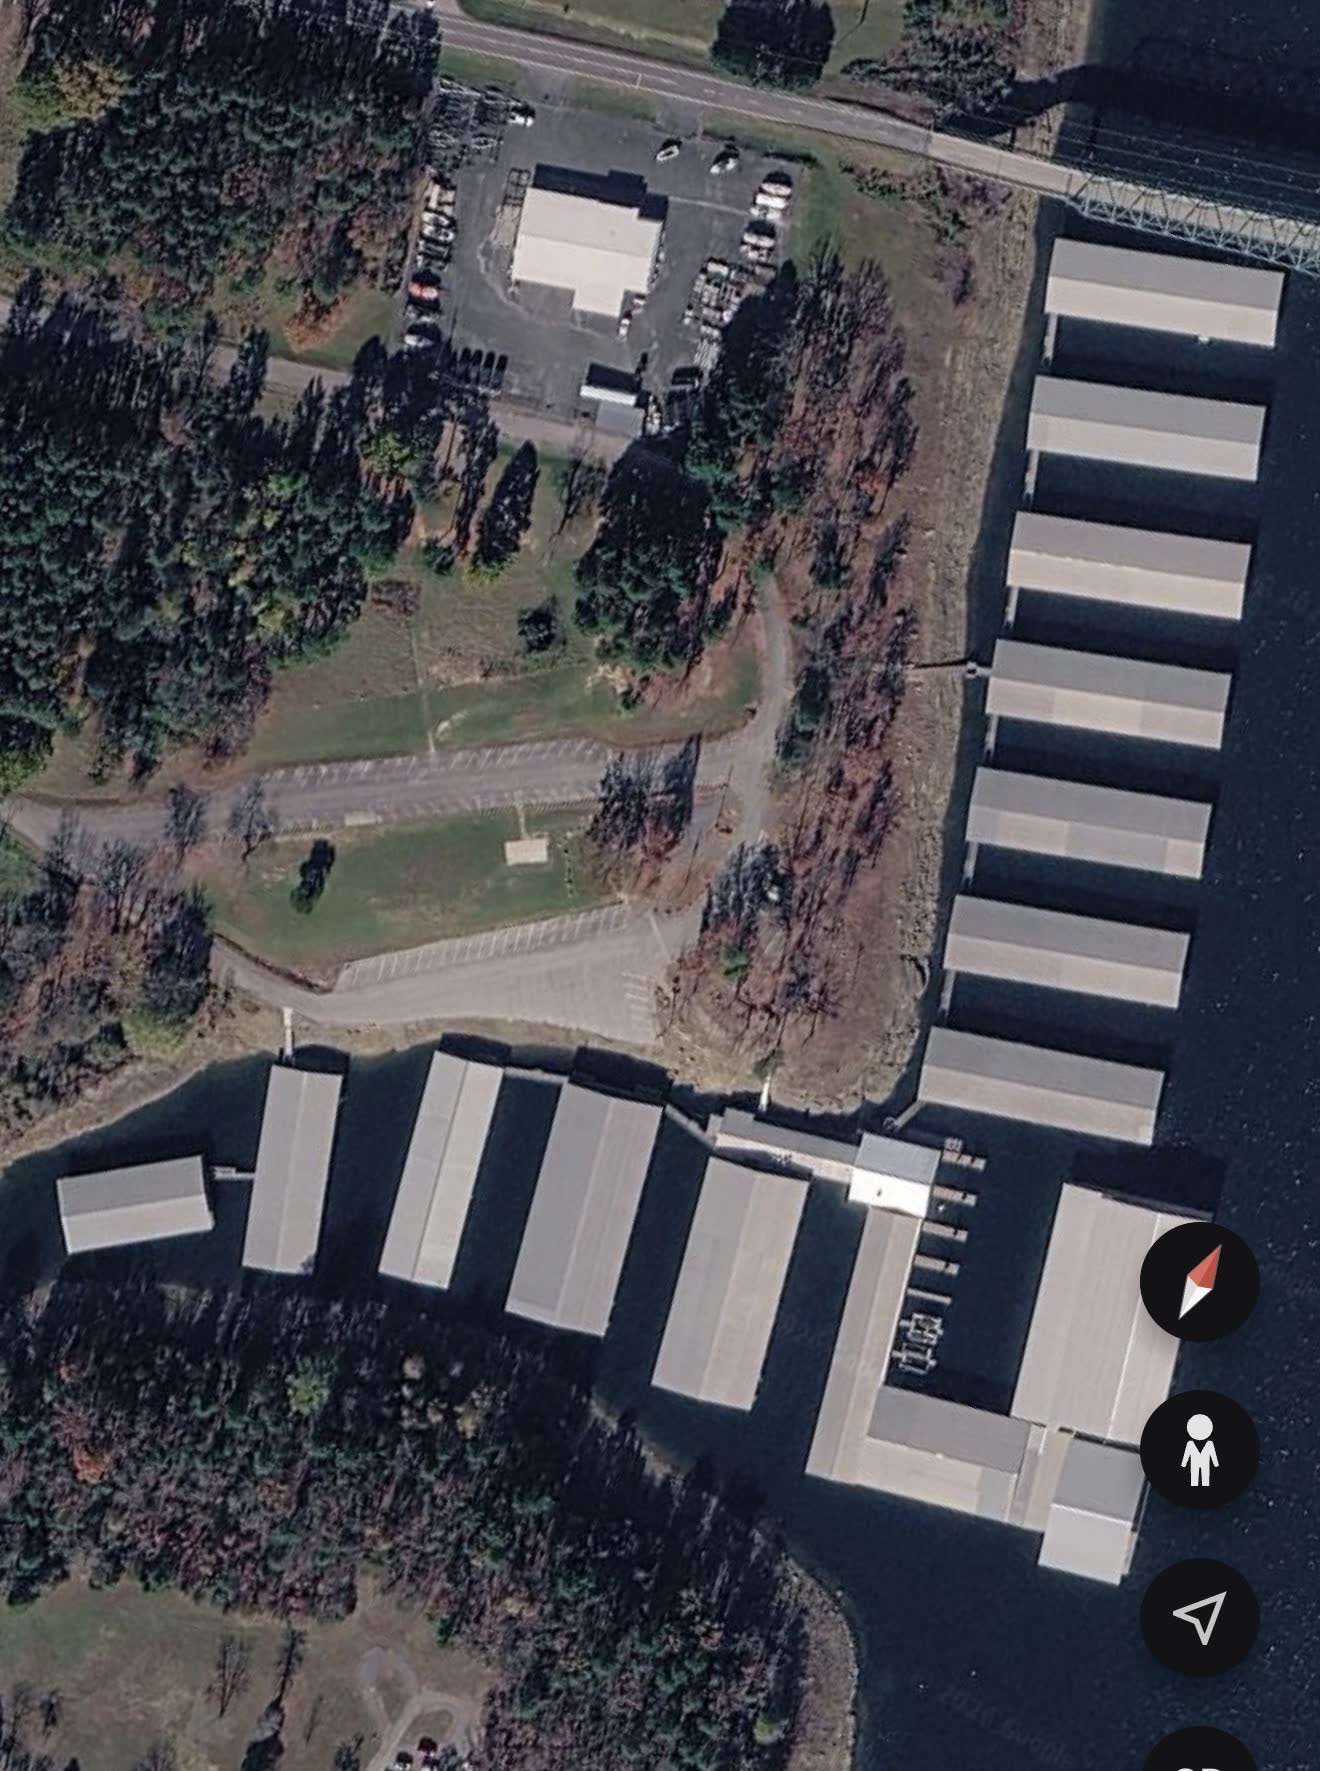
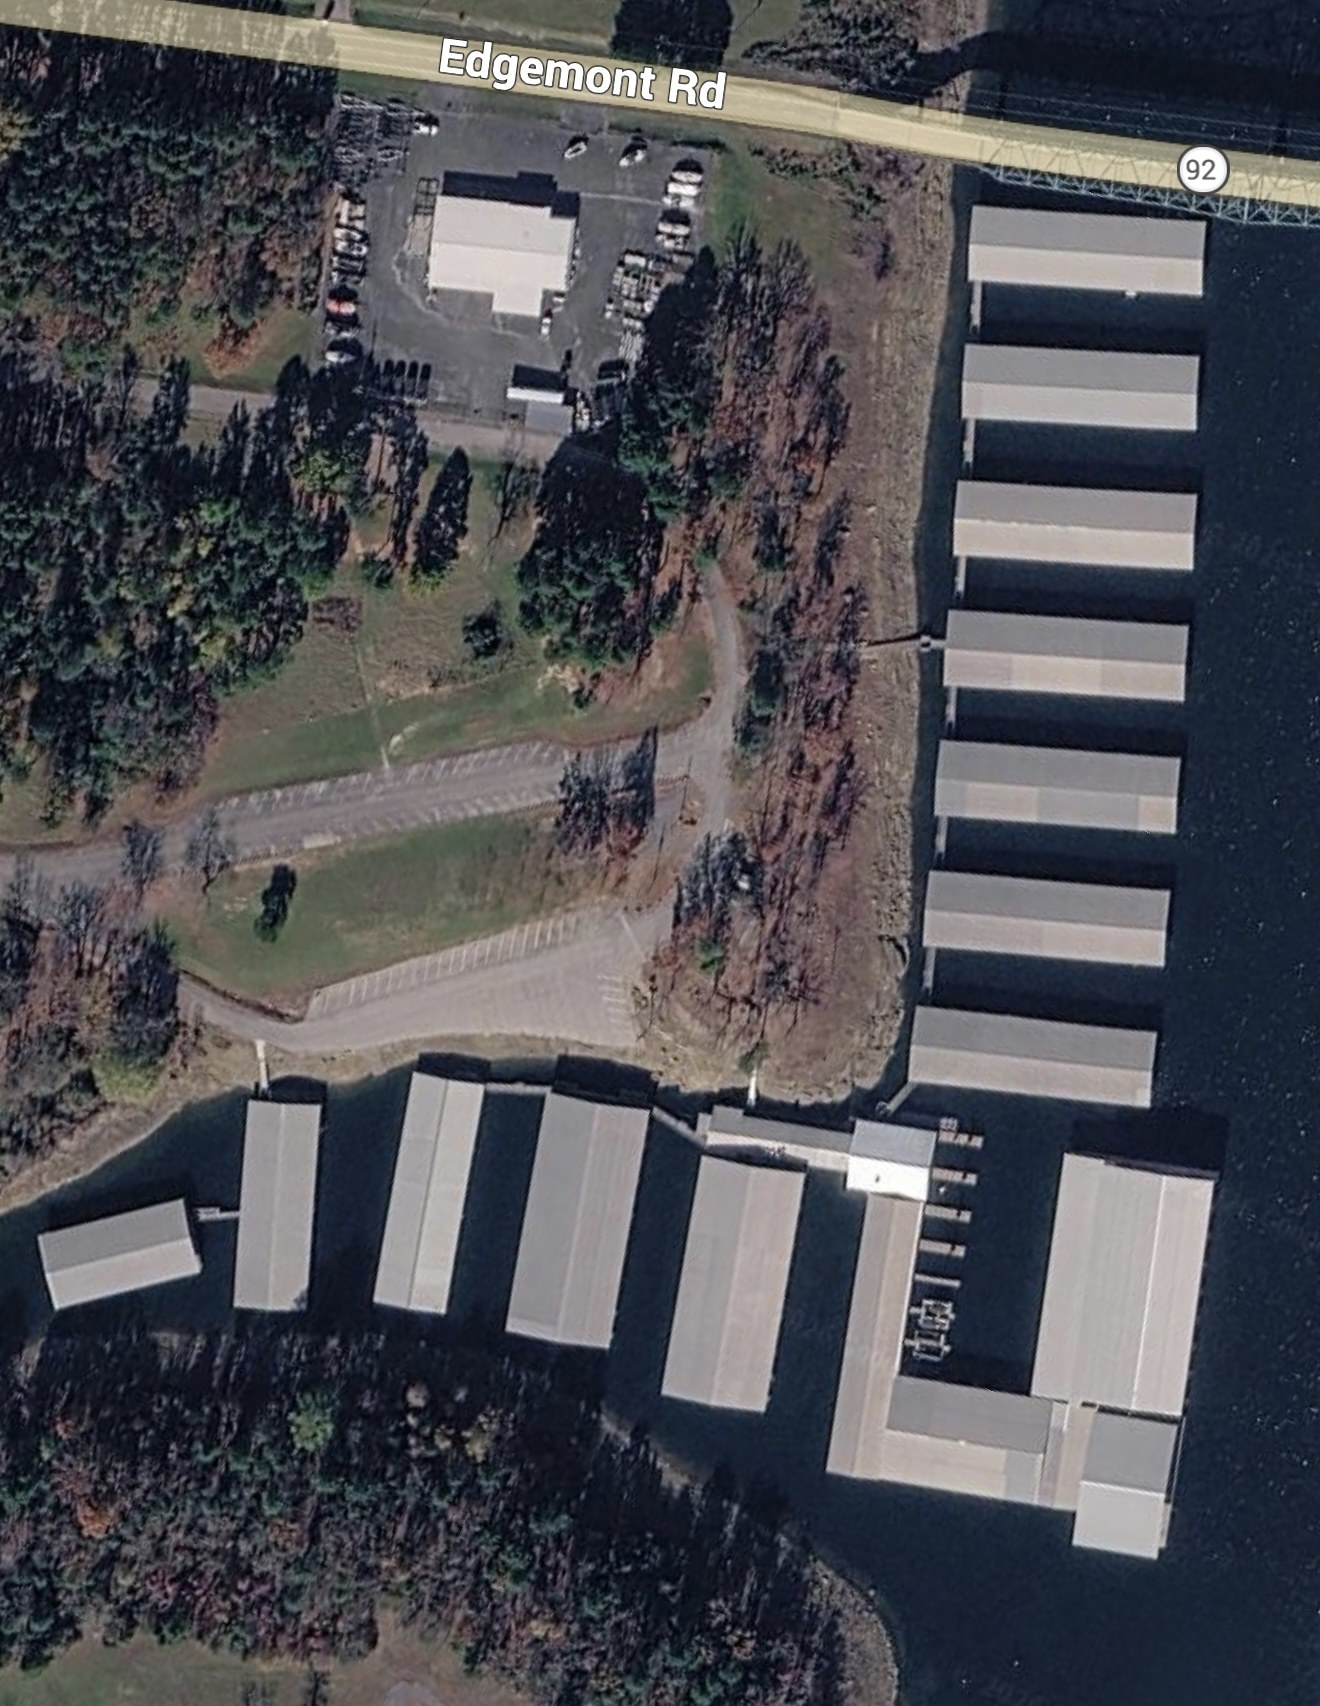
Laceys v86: new aerial overlay photo

diff --git a/laceys/app.js b/laceys/app.js
@@ -191,7 +191,7 @@ function isDockPieceMark(id){ return /^(walk|dlabel)-(7|8|9|10|11|12|13|4|3|2|1|
 let deepZoom=true;
 let photoMax=0.9;
 let photoAlign={x:0,y:0,scale:1,scaleX:1,scaleY:1,rot:0}; // overlay registration vs chart
-const PHOTO_ALIGN_STORE="laceys-photo-align-v1";
+const PHOTO_ALIGN_STORE="laceys-photo-align-v86";
 
 function clampPhotoScale(v){ return Math.max(0.2, Math.min(5, Number(v)||1)); }
 /** Normalize saved align: old `scale` → both axes; prefer scaleX/scaleY when present. */
@@ -371,10 +371,9 @@ function loadLayout(){
     const layers=Array.isArray(raw.layers)?clone(raw.layers):defaultLayers;
     let stackOrder=Array.isArray(raw.stackOrder)?clone(raw.stackOrder):[];
     if(!stackOrder.length) stackOrder=defaultStack;
-    if(raw.photoAlign){
-      photoAlign=normalizePhotoAlign(raw.photoAlign);
-      savePhotoAlign();
-    }
+    // v86 aerial: ignore stale photoAlign embedded in layout JSON (tuned to prior photo).
+    // Alignment lives in PHOTO_ALIGN_STORE (bumped key); empty key → default fill 100%/0/0.
+    // Do not wipe docks/marks — only skip image registration from layout.
     if(raw.photoMax!=null){ photoMax=Math.max(0, Math.min(1, Number(raw.photoMax))); }
     return {docks,marks,groups:Array.isArray(raw.groups)?clone(raw.groups):[],layers,stackOrder};
   }catch{
@@ -806,7 +805,7 @@ function buildSlips(){
 }
 const layerBg=el("g",{id:"bg"}), layerStack=el("g",{id:"stack"}), layerSite=el("g",{id:"lod-site"}), layerWalkMarks=el("g",{id:"lod-walkmarks"}), layerMarks=el("g",{id:"marks"}), layerDocks=el("g",{id:"docks"}), layerSlips=el("g",{id:"slips"}), layerLabels=el("g",{id:"lod-labels"});
 svg.appendChild(el("rect",{width:MAP_W,height:MAP_H,fill:"#0c3c41"}));
-const bgImg=el("image",{href:"dock-map.jpg",x:0,y:0,width:MAP_W,height:MAP_H,opacity:0.9,preserveAspectRatio:"none"});
+const bgImg=el("image",{href:"dock-map.jpg?v=86",x:0,y:0,width:MAP_W,height:MAP_H,opacity:0.9,preserveAspectRatio:"none"});
 layerBg.appendChild(bgImg);
 svg.setAttribute("overflow","hidden"); // clip to chart viewBox — aerial fills workspace via none
 loadPhotoAlign();

diff --git a/laceys/index.html b/laceys/index.html
@@ -673,7 +673,7 @@ body.scale-measuring #scale-measure-chip{ display:flex; }
 </div>
 <button type="button" id="edit-tools-peek" aria-label="Open tools">▲ Tools</button>
 
-<script src="app-data.js?v=85"></script>
-<script src="app.js?v=85"></script>
+<script src="app-data.js?v=86"></script>
+<script src="app.js?v=86"></script>
 </body>
 </html>
